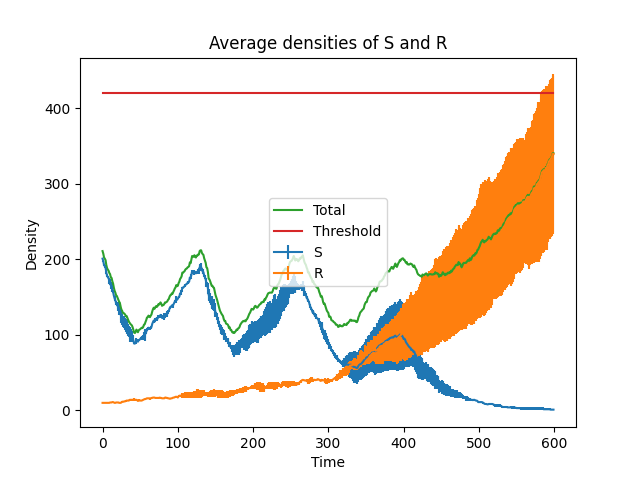
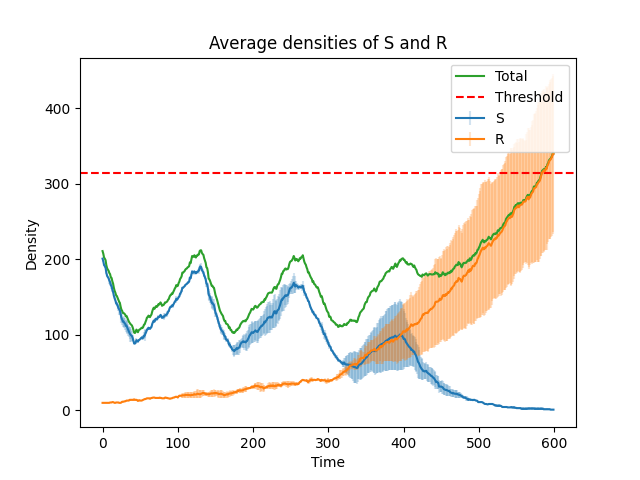
beutify

diff --git a/comparison_ABM.py b/comparison_ABM.py
@@ -59,8 +59,10 @@ def comparison_ABM(parameters, nruns, theshold, filename = None):
     plt.errorbar(np.arange(parameters["T"]), np.mean(densities_R, axis=0), yerr=np.std(densities_R, axis=0), label="R")
     # plot total density
     plt.plot(np.arange(parameters["T"]), np.mean(densities_S, axis=0) + np.mean(densities_R, axis=0), label="Total")
-    # plot the threshold
-    plt.plot(np.arange(parameters["T"]), theshold * (parameters["S0"] + parameters["R0"]) * np.ones(parameters["T"]), label="Threshold")
+    # plot the threshold with a dashed line and transparency
+    plt.axhline(y=theshold * (parameters['S0'] + parameters['R0']), color='r', linestyle='--', label="Threshold")
+    plt.gca().collections[0].set_alpha(0.2)
+    plt.gca().collections[1].set_alpha(0.2)
     plt.title("Average densities of S and R")
     plt.xlabel("Time")
     plt.ylabel("Density")
@@ -104,7 +106,7 @@ if __name__ == "__main__":
     therapies = ["continuous", "adaptive", "notherapy"]
 
     # define the threshold
-    theshold = 2
+    theshold = 1.5
 
     # run the model for all the combinations of parameters
     for initial_condition_type in inital_condition_types:
